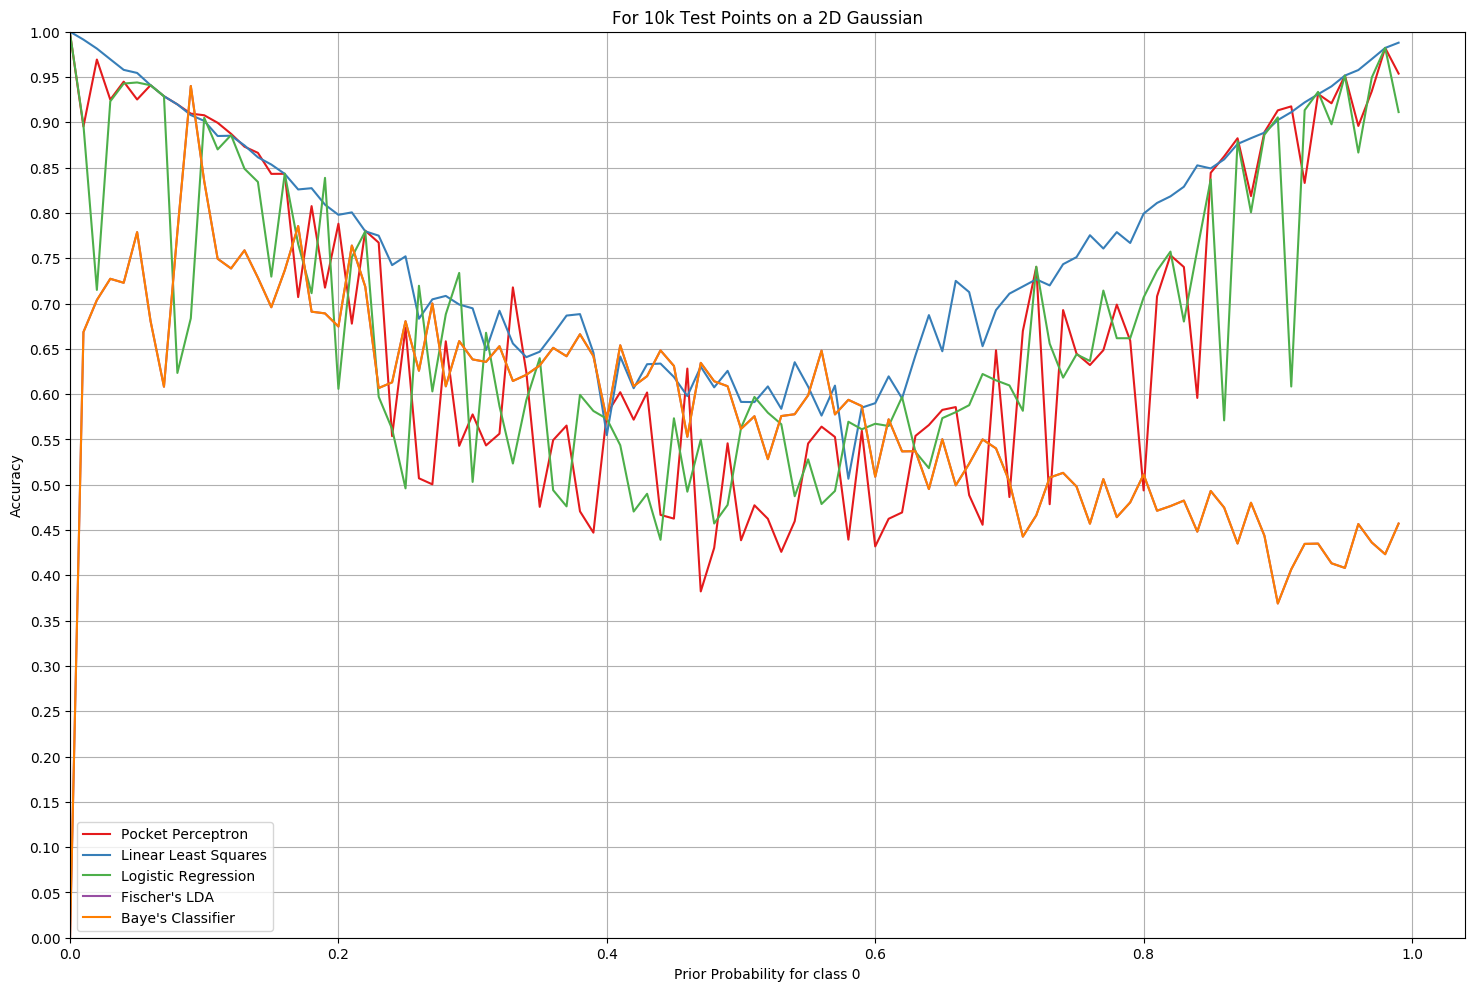
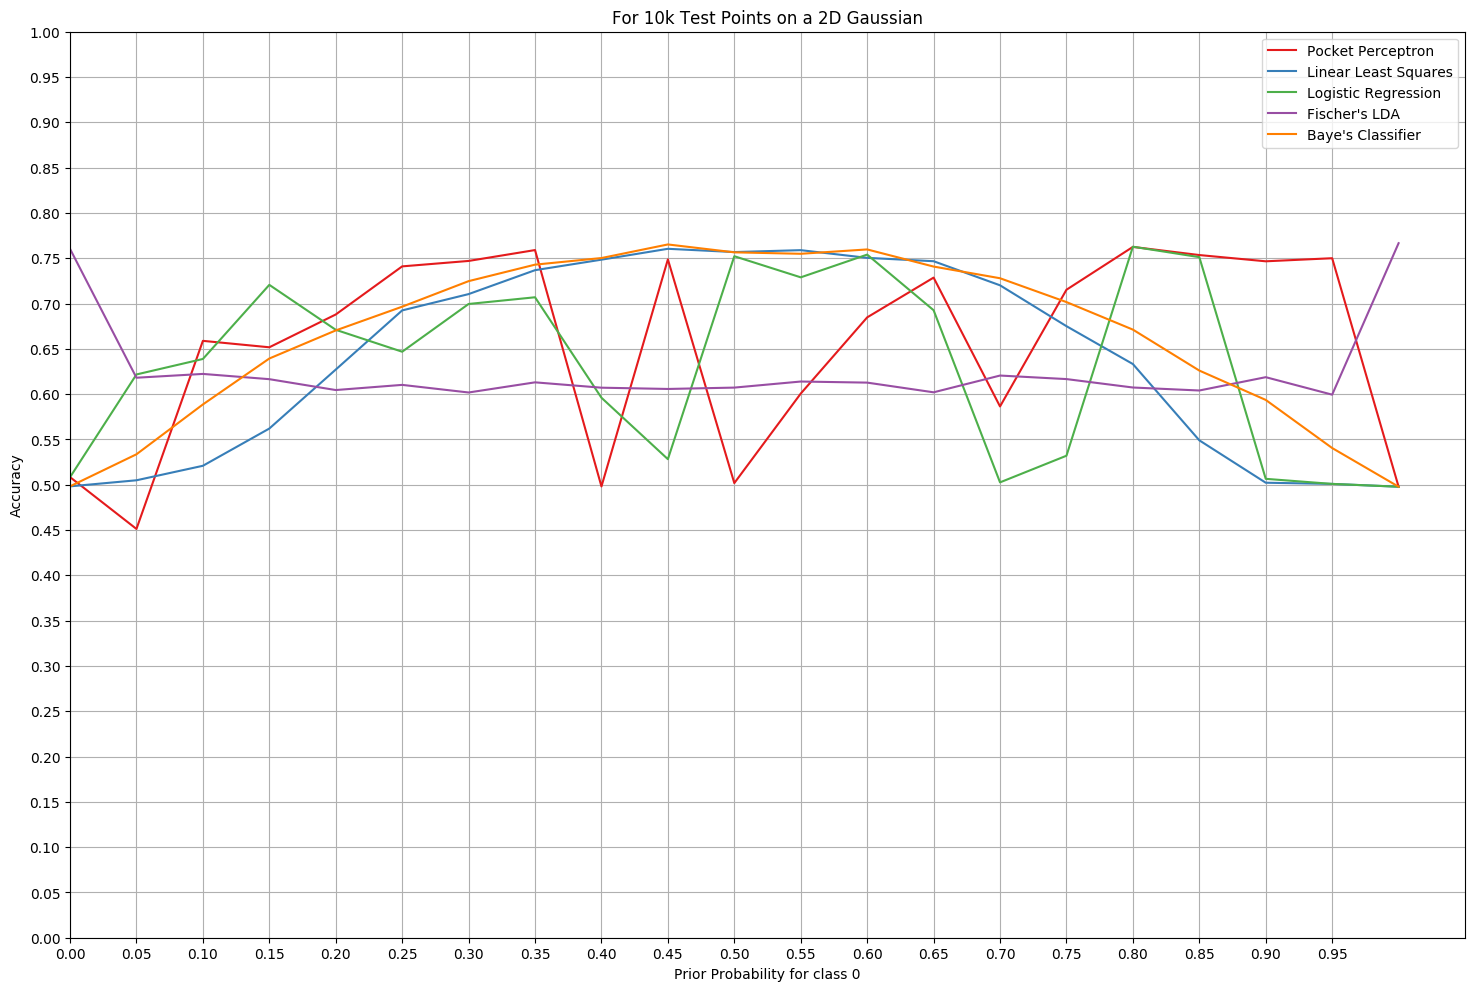
pijuhjg

diff --git a/Assignment 4/Classification Task/Synthetic Dataset/my_help_functions.py b/Assignment 4/Classification Task/Synthetic Dataset/my_help_functions.py
@@ -42,15 +42,24 @@ def pocket_percep(x_train,y_train):
 #%% LINEAR CLASSIFY
 def linear_classify(W,x_test,y_test,**kwargs):
     only_classify=kwargs.get("only_classify",False)
+    logistic=kwargs.get('logistic',False)
     bias=np.ones((x_test.shape[0],1))
     x=np.concatenate((bias,x_test),axis=1) 
-    prediction=(np.sign(x@W)+1)/2 #Predict 0 or 1
+    if not logistic:
+        prediction=(np.sign(x@W)+1)/2 #Predict 0 or 1
+        # prediction(prediction)
+        prediction=np.squeeze(prediction)
+    else:
+        prediction=sigmoid(W,x) #Predict 0 or 1
+        prediction[prediction>=0.5]=1
+        prediction[prediction<0.5]=0
+        prediction=np.squeeze(prediction)
     if only_classify:
         return prediction
     else:
         y=y_test+0 #0 is mapped to 1 and 1 is mapped to -1    
-        y=np.expand_dims(y,axis=1)
-        error_vec=(y.T-prediction).T
+        # y=np.expand_dims(y,axis=1)
+        error_vec=(y-prediction)
         error=error_vec[error_vec!=0]
         error=len(error)        
         return error/len(y), prediction
@@ -96,9 +105,20 @@ def FLDA(x_train,y_train):
     x=x_train
     y=np.expand_dims(y,axis=1)
     x0=x_train[y_train==0]
-    x1=x0=x_train[y_train==1]
+    x1=x_train[y_train==1]
+    
     m0=np.mean(x_train[y_train==0],axis=0)
     m1=np.mean(x_train[y_train==1],axis=0)
+    
+    if x1.shape[0]==0: #No class 1 samples
+        temp=-np.ones((x_train.shape[1]+1,1))
+        temp[0]=1
+        return temp*(x0.min())*1e4
+    if x0.shape[0]==0: #No Class 0 samples
+        temp=np.ones((x_train.shape[1]+1,1))
+        temp[0]=-1
+        return temp*(x1.max())*1e4
+    
     Sw=0
     for i in range(x0.shape[0]):
         temp=np.expand_dims(x0[i]-m0,axis=1)
@@ -111,41 +131,14 @@ def FLDA(x_train,y_train):
     W=np.linalg.inv(Sw)@(m1-m0)
     z=x@W
     z0=z[y_train==0]
-    z1=z[y_train==1
-         ]
+    z1=z[y_train==1]
     m0=np.mean(z0,axis=0)
     m1=np.mean(z1,axis=0)
     b1=-(m0+m1)/2
     w1=[abs(b1),W]
     w1=np.hstack(w1)
     return w1
-    # std1=np.std(z0,axis=0)
-    # std2=np.std(z1,axis=0)
-    # # [b1,b2]=Gaussian_intersection(m0,m1,std1,std2)
-    # b1=-(m0+m1)/2
-    # # b1=0.0003
-    # w1=[abs(b1),W]
-    # w1=np.hstack(w1)
     
-    # w2=[-abs(b2),W]
-    # w2=np.hstack(w2)
-    
-    # b=np.ones((x_train.shape[0],1))
-    # x=np.concatenate((b,x_train),axis=1) 
-    
-    # prediction=(np.sign(x@w1)/2)+0.5 #Predict
-    # error_vec=(y.T-prediction).T
-    # error1=error_vec[error_vec!=0]
-    # error1=len(error1)  
-    
-    # prediction=(np.sign(x@w2)/2)+0.5 #Predict
-    # error_vec=(y.T-prediction).T
-    # error2=error_vec[error_vec!=0]
-    # error2=len(error2) 
-    
-    # if error1<error2:
-    #     return w1
-    # else: return w2
 #%% Function to find Baye's Decision Boundary
 def Bayesian_Boundary(m1,m2,std1,std2,x):
   a = 1/(2*std1*2) - 1/(2*std2*2)
@@ -351,7 +344,7 @@ def MESH_plot(y_set,X_set,title_name,**kwargs):
     cs.collections[0].set_label("Baye's Boundary")
     subplot.annotate('some text here',(1.4,1.6))
     # plt.show()
-#%% Define Decision Boundary for Bayes
+#%% Decision Boundary for Bayes
 class Bayes_Dec_Boundary(object):
     def __init__(self,m1,m2,c1,c2,p1,p2):
         """http://www.robots.ox.ac.uk/~az/lectures/est/lect56.pdf 
@@ -377,7 +370,12 @@ class Bayes_Dec_Boundary(object):
         y2=np.matmul(temp2,self.c2_inv)
         y2=np.matmul(y2,temp2)*0.5
         y=y1-y2+self.k
-        return y   
+        if self.p1==0:  #Only class 1 samples are present
+            return 1
+        elif self.p2==0: #Only class 0 samples are present:
+            return -1
+        else:
+            return y
 
 
 #%% SUBPLOTS   
@@ -404,7 +402,7 @@ def Plot_SubPlots(data,title_name,x_name,y_name,opti_bayes):
     
     # LOGISTIC REGRESSION
     log_pred=log_reg(x_train,y_train)
-    [error_logistic,_]=linear_classify(log_pred,x_test,y_test)
+    [error_logistic,_]=linear_classify(log_pred,x_test,y_test,logistic=True)
     MESH_plot(y_test,x_test,"Logistic Regression "+str(100-(np.round(100*error_logistic,4)))+
               "% Accuracy",classifier_weights=percep_pred,subplot=axs[2],bay=opti_bayes)
     
@@ -415,12 +413,6 @@ def Plot_SubPlots(data,title_name,x_name,y_name,opti_bayes):
               "% Accuracy",classifier_weights=percep_pred,subplot=axs[3],bay=opti_bayes)
     
     #Baye's PLOTS
-    # from sklearn.naive_bayes import GaussianNB 1
-    from sklearn import mixture
-    # gnb = GaussianNB() 1
-    gnb = mixture.GaussianMixture(n_components=2, covariance_type='full')
-    gnb.fit(x_train)
-    # y_pred=abs(gnb.predict(x_test)-1)
     y_pred=np.zeros(len(x_test))
     for i in range(len(x_test)):
             y_pred[i]=np.sign(opti_bayes.dec_bound(x_test[i]))
@@ -435,7 +427,7 @@ def Plot_SubPlots(data,title_name,x_name,y_name,opti_bayes):
     axbig = fig.add_subplot(gs[2, :])
         
     MESH_plot(y_test,x_test,"Baye's Classifier "+str(100-(np.round(100*error_baye,4)))+
-              "% Accuracy",classifier_weights=gnb,subplot=axbig,bay=opti_bayes)    
+              "% Accuracy",subplot=axbig,bay=opti_bayes)    
     fig.text(0.5, 0.9, title_name, ha='center',fontsize=21)
     fig.text(0.5, 0.1, x_name, ha='center',fontsize=21)
     fig.text(0.10, 0.5, y_name, va='center', rotation='vertical',fontsize=21)         
@@ -446,7 +438,7 @@ def Eval(data,opti_bayes):
     x_test=data[2]
     y_test=data[3]
     # PERCEPTRON
-    percep_pred=pocket_percep(x_train,y_train)
+    percep_pred=pocket_percep(x_train,y_train)    
     [error_percep,_]=linear_classify(percep_pred,x_test,y_test)
     
     # LINEAR LEAST SQUARES
@@ -455,7 +447,7 @@ def Eval(data,opti_bayes):
     
     # LOGISTIC REGRESSION
     log_pred=log_reg(x_train,y_train)
-    [error_logistic,_]=linear_classify(log_pred,x_test,y_test)
+    [error_logistic,_]=linear_classify(log_pred,x_test,y_test,logistic=True)
     
     # FISCHER LINEAR DISCRIMINANT ANALYSIS
     flda_pred=FLDA(x_train,y_train)
@@ -466,16 +458,18 @@ def Eval(data,opti_bayes):
     for i in range(len(x_test)):
         y_pred[i]=(np.sign(opti_bayes.dec_bound(x_test[i,:]))+1)/2
     # y_pred=gnb.fit(x_train, y_train).predict(x_test) #Populate the mesh grid    
-    error_baye=len(y_test[y_pred!=y_test])/len(y_test)
+    error=y_test[y_test!=y_pred]   
+    error_baye=len(error) /len(y_test)
     
+    [error_flda,_]=linear_classify(flda_pred,x_test,y_test)
     return np.asarray([1-error_percep,1-error_lin,1-error_logistic,1-error_flda,1-error_baye])
 #%% PLOT PERFORMANCE
-def Plot_Performance(data,priors,title_name):
-    a1=data[:,0]
-    a2=data[:,1]
-    a3=data[:,2]
-    a4=data[:,3]
-    a5=data[:,3]
+def Plot_Performance(data1,priors,title_name):
+    a1=data1[:,0]
+    a2=data1[:,1]
+    a3=data1[:,2]
+    a4=data1[:,3]
+    a5=data1[:,4]
     plots=[a1,a2,a3,a4,a5]
     plt.figure(num=None, figsize=(18, 12), dpi=100, facecolor='w', edgecolor='k')
     colormap = plt.cm.get_cmap("Set1")
@@ -484,6 +478,7 @@ def Plot_Performance(data,priors,title_name):
     for i in range(5):
         plt.plot(priors,plots[i],color=colormap(i),label=label[i])
     plt.yticks(np.arange(0,1+0.5,0.05))
+    plt.xticks(np.arange(0,1,0.05))
     plt.grid()
     plt.xlim(left=0)
     plt.ylim((0,1))

diff --git a/Assignment 4/Classification Task/Synthetic Dataset/Synthetic_Variable_Prior.py b/Assignment 4/Classification Task/Synthetic Dataset/Synthetic_Variable_Prior.py
@@ -12,32 +12,40 @@ K=2 #How many distributions
 N_train=2000 #How many Samples
 N_test=10000 #How many Samples
 d=2 #How many dimensions
-p=0.5
+# p=0.5
 
-means=[np.zeros(d), np.zeros(d)]
+means=[np.zeros(d), 1+np.zeros(d)]
 means=np.squeeze(np.asarray(means)).T
 # covariance=[[[2,0],[0,2]],[[0.5,0],[0,2]]]
-covariance=covariance=np.dstack([np.eye(d),[[1, 0.9],[0.9, 1]]])
+# covariance=covariance=np.dstack([np.eye(d),[[1, 0.9],[0.9, 1]]])
+covariance=np.dstack([np.eye(d),np.eye(d)])
 #%% OPTIMAL CLASSIFIER
-opti_bayes=mf.Bayes_Dec_Boundary(means[:,0],means[:,1],covariance[:,:,0],covariance[:,:,1],p,1-p)
-t=opti_bayes.dec_bound([0,10])
 #%% Performance Graphs
 performance=[]
-priors=np.arange(0,1,0.1) #Prior probability of selecting a distribution
+priors=np.arange(0,1+0.05,0.05) #Prior probability of selecting a distribution
 itr=0
 for p in priors:
+    opti_bayes=mf.Bayes_Dec_Boundary(means[:,0],means[:,1],covariance[:,:,0],covariance[:,:,1],p,1-p)
     [y_train, x_train]=mf.Get_Sythetic(K,d,N_train, priors=[p,1-p],means=means,cov=covariance)
-    [y_test, x_test]=mf.Get_Sythetic(K,d,N_test, priors=[p,1-p],means=means,cov=covariance)
+    [y_test, x_test]=mf.Get_Sythetic(K,d,N_test, priors=[0.5,0.5],means=means,cov=covariance)
     
     data=[x_train,y_train,x_test,y_test]
     temp=mf.Eval(data,opti_bayes)
     performance.append(temp)
     itr+=1
-    print("Completed {} of {} iterations".format(itr,len(priors)))
+    if itr==9:
+        print("Now")
+    print("Completed {} of {} iterations".format(itr,len(priors)-1))
 performance=np.asarray(performance)
-    
-mf.Plot_Performance(performance,priors,"For 1k Test Points on a 2D Gaussian")
+   #%% 
+mf.Plot_Performance(performance,priors,"For 10k Test Points on a 2D Gaussian")
 #%%    
+p=0.5
+opti_bayes=mf.Bayes_Dec_Boundary(means[:,0],means[:,1],covariance[:,:,0],covariance[:,:,1],p,1-p)
+[y_train, x_train]=mf.Get_Sythetic(K,d,N_train, priors=[p,1-p],means=means,cov=covariance)
+[y_test, x_test]=mf.Get_Sythetic(K,d,N_test, priors=[p,1-p],means=means,cov=covariance)
+
+data=[x_train,y_train,x_test,y_test]
 mf.Plot_Figs(y_test,x_test,K,"10k Points")
 mf.Plot_SubPlots(data,"Decision Boundaries for Synthetic Data: 2D Gaussian","x1","x2",opti_bayes)
 # mf.Plot_SubPlots(data,K,"Analysis 1","x1","x2")
